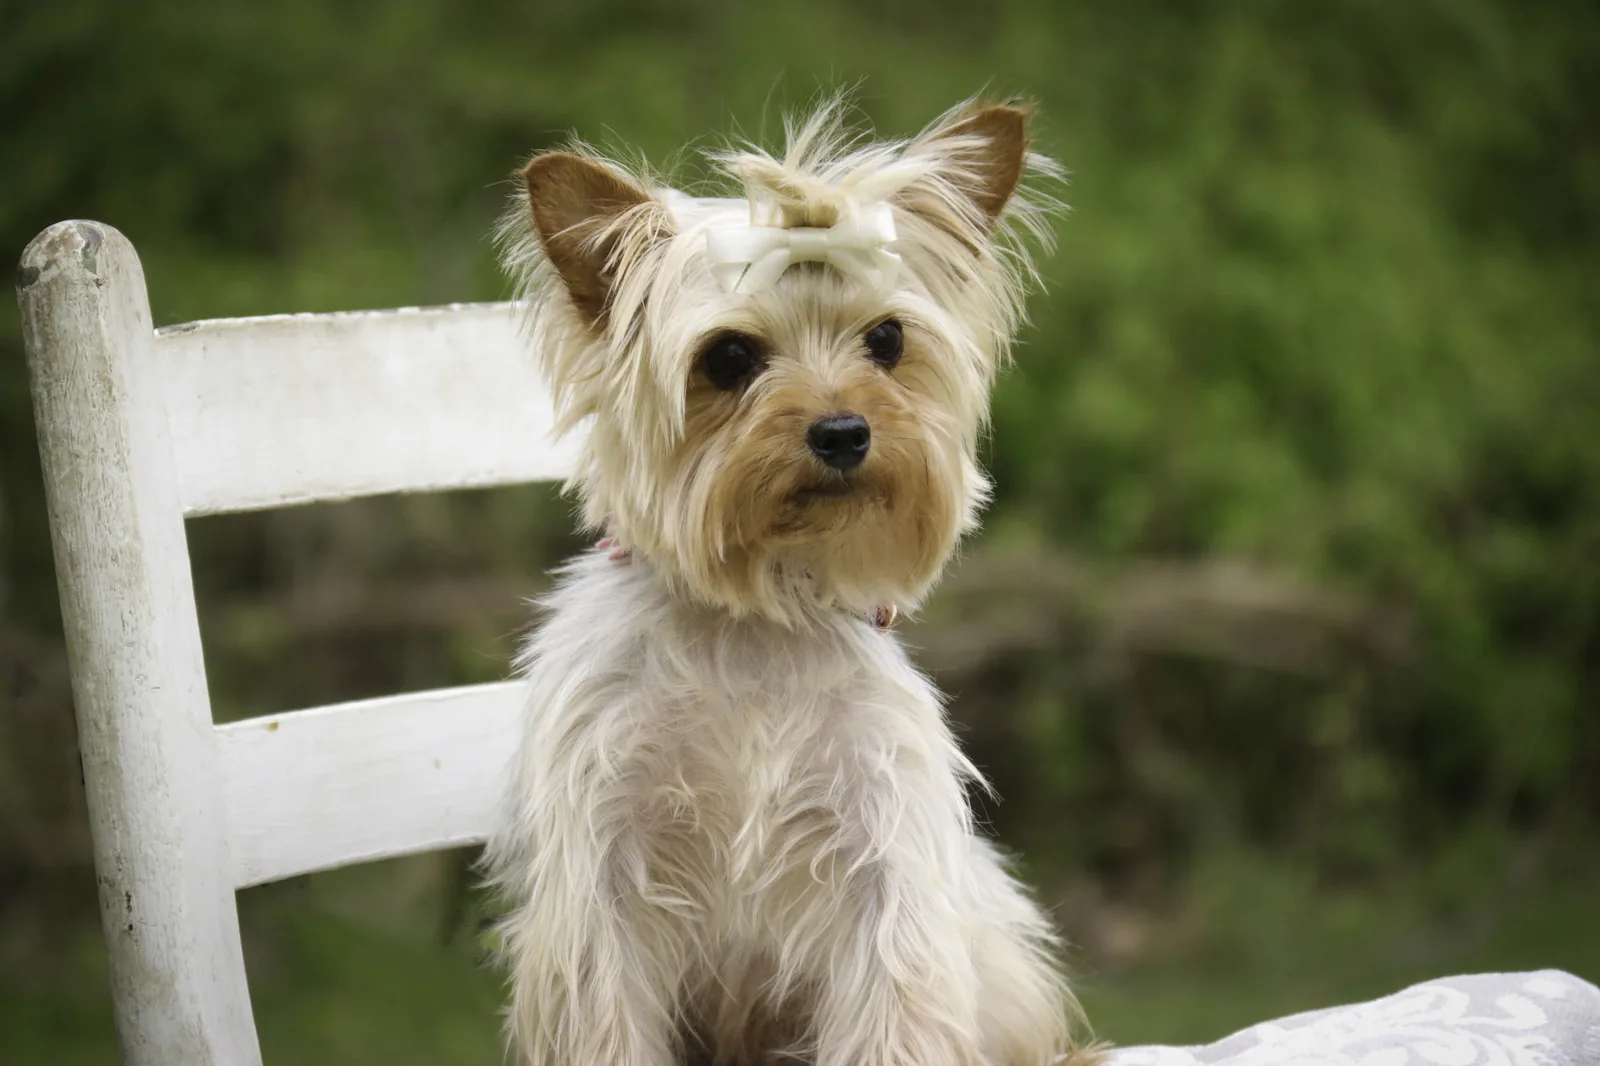
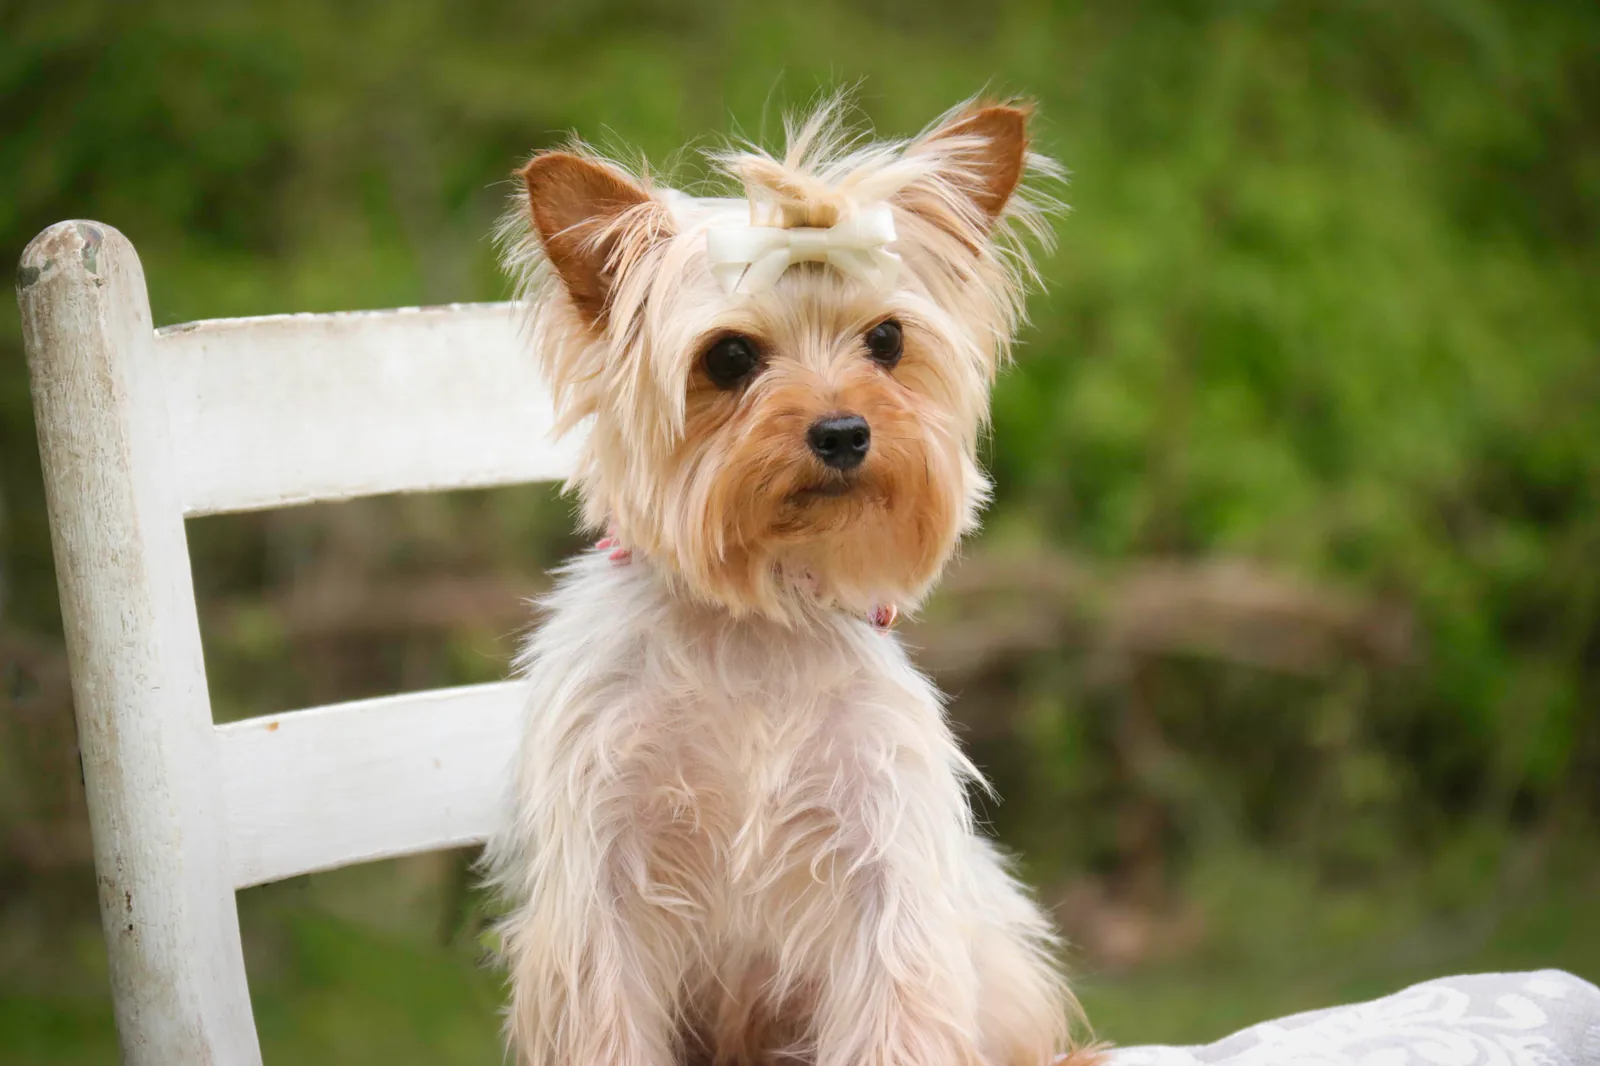
Convert the breed and breeder photos to sRGB, and move the About and Tips photos under the opening paragraph on phones
Fourteen of the photographer's files are ProPhoto RGB and one is Display P3. The WebP copies were written without converting them, so every browser showed them washed out. ops/breed_photos.py now converts each original to sRGB before resizing, and all 24 photos are regenerated.

On a phone the About and Tips side photos fell to the end of the page. They now also sit under the opening paragraph there, with the side copy hidden. Desktop is unchanged. style.css v=74.

diff --git a/breed.html b/breed.html
@@ -24,7 +24,7 @@
 <link rel="preconnect" href="https://fonts.googleapis.com">
 <link rel="preconnect" href="https://fonts.gstatic.com" crossorigin>
 <link href="https://fonts.googleapis.com/css2?family=Barlow+Condensed:wght@400;600&family=Barlow:wght@400;500;600&family=Playfair+Display:ital,wght@0,500;0,600;1,500&display=swap" rel="stylesheet">
-<link rel="stylesheet" href="css/style.css?v=73">
+<link rel="stylesheet" href="css/style.css?v=74">
 </head>
 <body>
 

diff --git a/breeder.html b/breeder.html
@@ -24,7 +24,7 @@
 <link rel="preconnect" href="https://fonts.googleapis.com">
 <link rel="preconnect" href="https://fonts.gstatic.com" crossorigin>
 <link href="https://fonts.googleapis.com/css2?family=Barlow+Condensed:wght@400;600&family=Barlow:wght@400;500;600&family=Playfair+Display:ital,wght@0,500;0,600;1,500&display=swap" rel="stylesheet">
-<link rel="stylesheet" href="css/style.css?v=73">
+<link rel="stylesheet" href="css/style.css?v=74">
 </head>
 <body>
 

diff --git a/breeders.html b/breeders.html
@@ -27,7 +27,7 @@
 <link rel="preconnect" href="https://fonts.googleapis.com">
 <link rel="preconnect" href="https://fonts.gstatic.com" crossorigin>
 <link href="https://fonts.googleapis.com/css2?family=Barlow+Condensed:wght@400;600&family=Barlow:wght@400;500;600&family=Playfair+Display:ital,wght@0,500;0,600;1,500&display=swap" rel="stylesheet">
-<link rel="stylesheet" href="css/style.css?v=73">
+<link rel="stylesheet" href="css/style.css?v=74">
 </head>
 <body>
 

diff --git a/breeds.html b/breeds.html
@@ -27,7 +27,7 @@
 <link rel="preconnect" href="https://fonts.googleapis.com">
 <link rel="preconnect" href="https://fonts.gstatic.com" crossorigin>
 <link href="https://fonts.googleapis.com/css2?family=Barlow+Condensed:wght@400;600&family=Barlow:wght@400;500;600&family=Playfair+Display:ital,wght@0,500;0,600;1,500&display=swap" rel="stylesheet">
-<link rel="stylesheet" href="css/style.css?v=73">
+<link rel="stylesheet" href="css/style.css?v=74">
 </head>
 <body>
 

diff --git a/index.html b/index.html
@@ -30,7 +30,7 @@
 <link rel="preconnect" href="https://fonts.googleapis.com">
 <link rel="preconnect" href="https://fonts.gstatic.com" crossorigin>
 <link href="https://fonts.googleapis.com/css2?family=Barlow+Condensed:wght@400;600&family=Barlow:wght@400;500;600&family=Playfair+Display:ital,wght@0,500;0,600;1,500&display=swap" rel="stylesheet">
-<link rel="stylesheet" href="css/style.css?v=73">
+<link rel="stylesheet" href="css/style.css?v=74">
 </head>
 <body>
 

diff --git a/list-with-us.html b/list-with-us.html
@@ -27,7 +27,7 @@
 <link rel="preconnect" href="https://fonts.googleapis.com">
 <link rel="preconnect" href="https://fonts.gstatic.com" crossorigin>
 <link href="https://fonts.googleapis.com/css2?family=Barlow+Condensed:wght@400;600&family=Barlow:wght@400;500;600&family=Playfair+Display:ital,wght@0,500;0,600;1,500&display=swap" rel="stylesheet">
-<link rel="stylesheet" href="css/style.css?v=73">
+<link rel="stylesheet" href="css/style.css?v=74">
 </head>
 <body>
 

diff --git a/puppies.html b/puppies.html
@@ -27,7 +27,7 @@
 <link rel="preconnect" href="https://fonts.googleapis.com">
 <link rel="preconnect" href="https://fonts.gstatic.com" crossorigin>
 <link href="https://fonts.googleapis.com/css2?family=Barlow+Condensed:wght@400;600&family=Barlow:wght@400;500;600&family=Playfair+Display:ital,wght@0,500;0,600;1,500&display=swap" rel="stylesheet">
-<link rel="stylesheet" href="css/style.css?v=73">
+<link rel="stylesheet" href="css/style.css?v=74">
 </head>
 <body>
 

diff --git a/puppy.html b/puppy.html
@@ -24,7 +24,7 @@
 <link rel="preconnect" href="https://fonts.googleapis.com">
 <link rel="preconnect" href="https://fonts.gstatic.com" crossorigin>
 <link href="https://fonts.googleapis.com/css2?family=Barlow+Condensed:wght@400;600&family=Barlow:wght@400;500;600&family=Playfair+Display:ital,wght@0,500;0,600;1,500&display=swap" rel="stylesheet">
-<link rel="stylesheet" href="css/style.css?v=73">
+<link rel="stylesheet" href="css/style.css?v=74">
 </head>
 <body>
 

diff --git a/css/style.css b/css/style.css
@@ -898,3 +898,6 @@ body.nav-open .chat-fab,body.nav-open .chat-panel{display:none}
   .sec-tools{width:100%;justify-content:space-between}
   .list-search{width:100%}
 }
+/* About and Tips: the photo under the opening paragraph on a phone, in the side column above that (Amber, 2026-10-30) */
+.photo-phone-only{display:none}
+@media(max-width:940px){.photo-phone-only{display:block;margin-top:1.4rem}.photo-wide-only{display:none}}

diff --git a/app/ops/breed_photos.py b/app/ops/breed_photos.py
@@ -8,7 +8,8 @@ point is where the subject sits, as a fraction of the saved photo, so every slot
   python app/ops/breed_photos.py --preview  also write a contact sheet of every slot to the folder given by PREVIEW_DIR
 """
 import os, sys, json
-from PIL import Image, ImageOps
+import io
+from PIL import Image, ImageCms, ImageOps
 
 HERE = os.path.dirname(os.path.abspath(__file__))
 REPO = os.path.abspath(os.path.join(HERE, '..', '..'))
@@ -52,6 +53,18 @@ BREEDER_PHOTOS = {
 OUT_B = os.path.join(REPO, 'img', 'breeders')
 
 
+def load(f):
+    """Open an original in sRGB. Most of the photographer's files are ProPhoto RGB and one is Display P3, and a
+    WebP written without converting them showed washed-out colour in every browser (Alex, 2026-10-30)."""
+    im = Image.open(os.path.join(SRC, f))
+    icc = im.info.get('icc_profile')
+    im = ImageOps.exif_transpose(im).convert('RGB')
+    if icc:
+        src = ImageCms.ImageCmsProfile(io.BytesIO(icc))
+        im = ImageCms.profileToProfile(im, src, ImageCms.createProfile('sRGB'), renderingIntent=0, outputMode='RGB')
+    return im
+
+
 def window(img, ratio, fx, fy):
     w, h = img.size
     if w / h > ratio:
@@ -65,7 +78,7 @@ def window(img, ratio, fx, fy):
 def main():
     table = {}
     for slug, (f, fx, fy, *crop) in PHOTOS.items():
-        im = ImageOps.exif_transpose(Image.open(os.path.join(SRC, f))).convert('RGB')
+        im = load(f)
         if crop:
             cx, cy, k = crop[0]
             cw, ch = round(im.width * k), round(im.height * k)
@@ -82,7 +95,7 @@ def main():
     print(json.dumps(table, indent=1))
     btable = {}
     for slug, (f, fx, fy) in BREEDER_PHOTOS.items():
-        im = ImageOps.exif_transpose(Image.open(os.path.join(SRC, f))).convert('RGB')
+        im = load(f)
         for width in (800, 1600):
             c = im.copy()
             if c.width > width:
